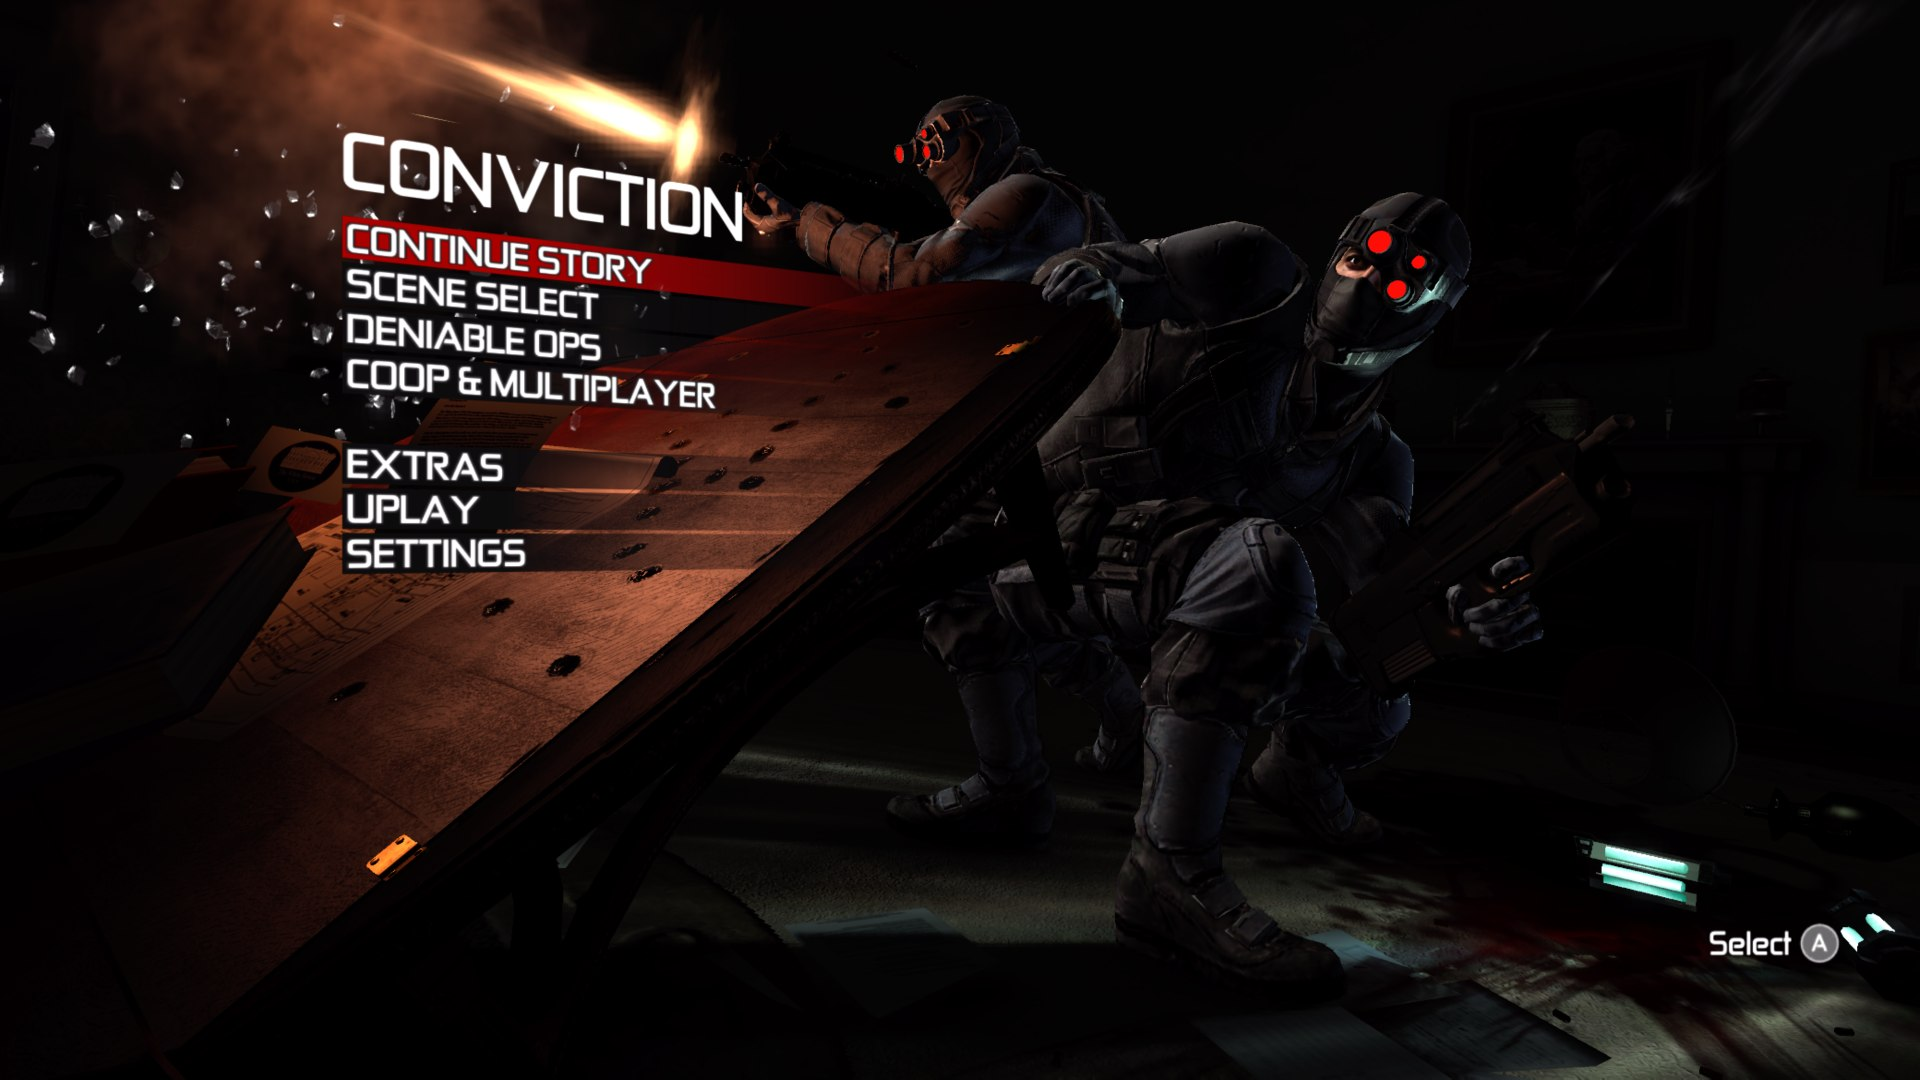
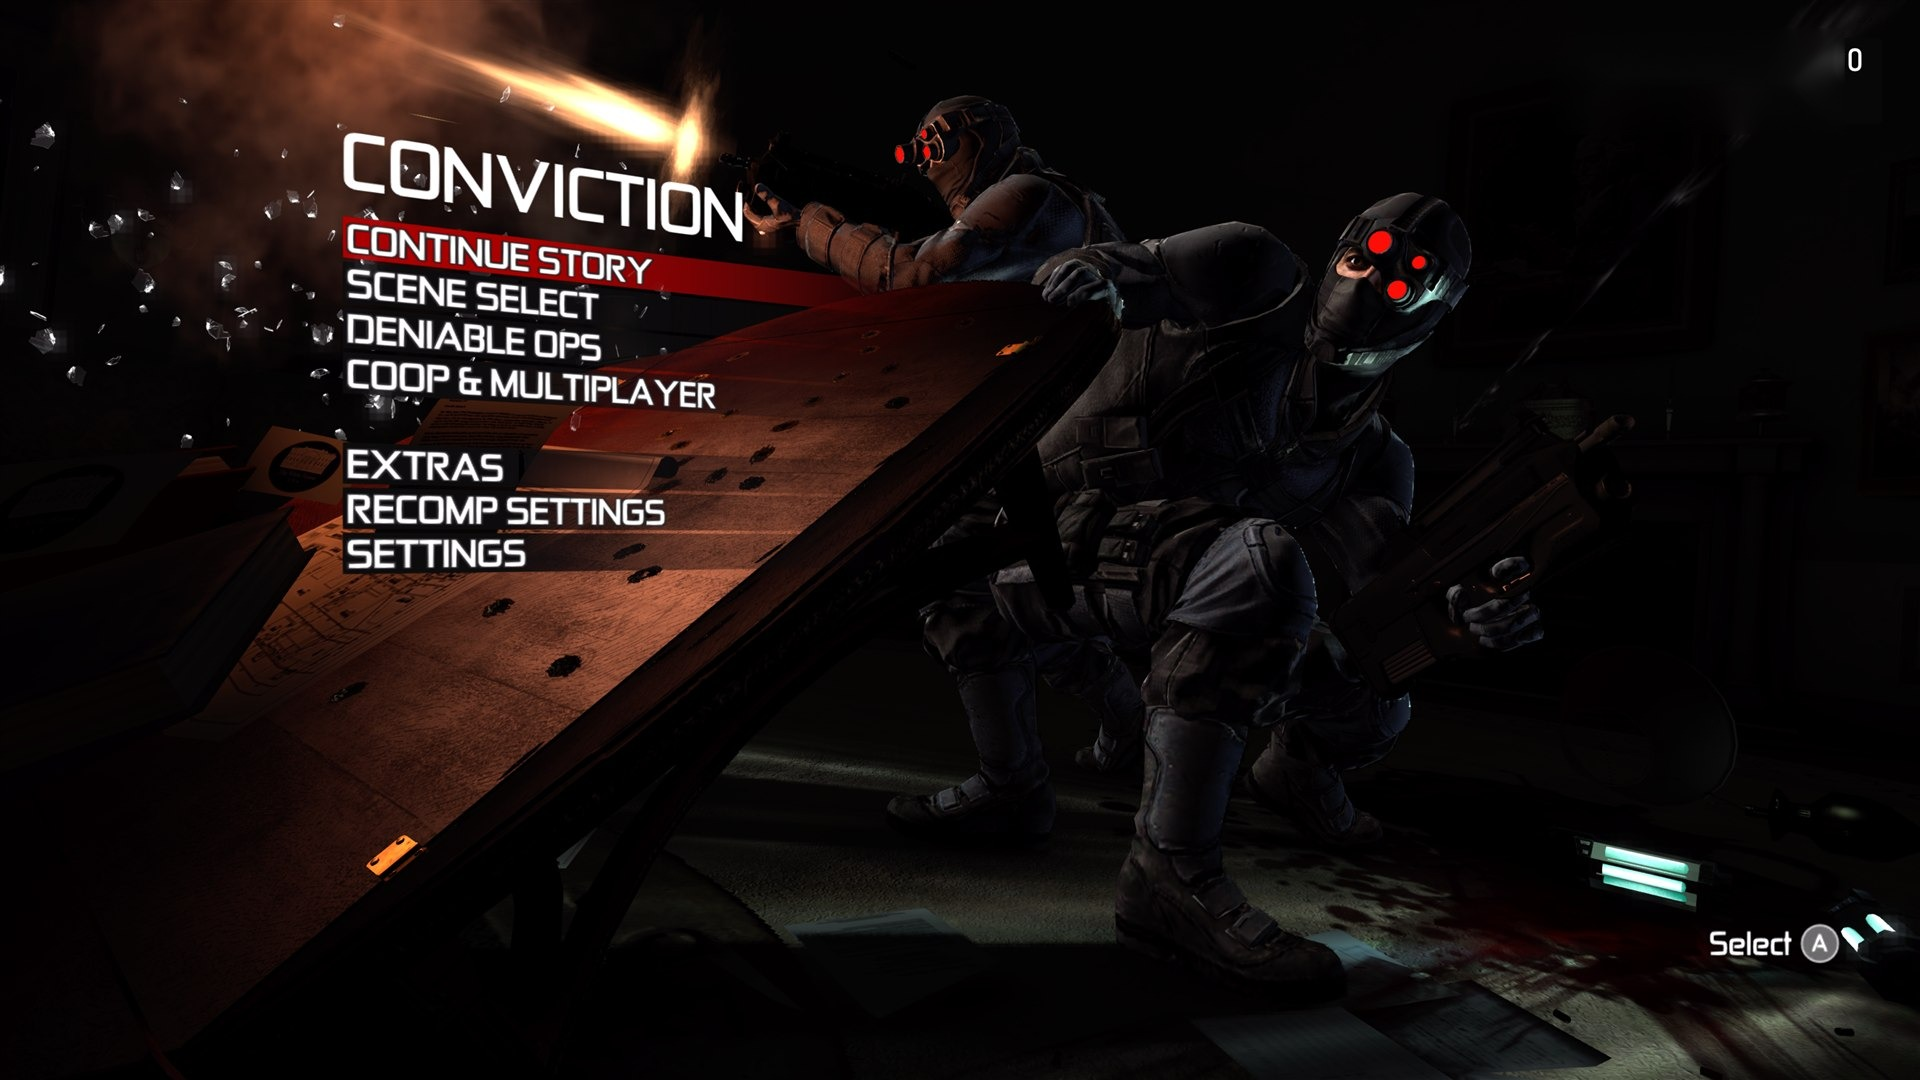
README: complete (test phase), 2026-11-05 patch notes, options, new screenshots
Status badge 'complete - testing', fps badge up to 240. Options: frame
rate cap, SMAA, Brightness, Texture sharpness, Profile name, Online on by
default. Screenshots: main menu with the Steam player card, RECOMP
SETTINGS with all rows, F1 Graphics tab at native 4K.

Claude-Session: https://claude.ai/code/session_01JYzPsfqunjkav1tmkVJWAA

diff --git a/README.md b/README.md
@@ -6,18 +6,20 @@
 
 **Tom Clancy's Splinter Cell: Conviction (Xbox 360) as a native Windows program. No emulator.**
 
-![status](https://img.shields.io/badge/status-in%20development-orange)
+![status](https://img.shields.io/badge/status-complete%20%E2%80%93%20testing-yellowgreen)
 [![Report a bug](https://img.shields.io/badge/report-a%20bug-red?logo=gitlab)](https://gitlab.com/octagram-labs-group/TCSCC-Recomp/-/issues)
 ![platform](https://img.shields.io/badge/platform-Windows%20x64-blue)
 ![renderer](https://img.shields.io/badge/renderer-Direct3D%2011-informational)
-![fps](https://img.shields.io/badge/up%20to-60%20fps-brightgreen)
+![fps](https://img.shields.io/badge/up%20to-240%20fps-brightgreen)
 ![license](https://img.shields.io/badge/license-GPL--3.0-green)
 
 </div>
 
 > [!NOTE]
-> **Work in progress.** All 11 story chapters load and play with sound and saves, Deniable Ops plays, and co-op /
-> Face-Off work online over Steam (System Link and Xbox LIVE Player Match). There is no installer release yet.
+> **Complete, now in the test phase.** All 11 story chapters load and play with sound and saves, Deniable Ops plays,
+> and co-op / Face-Off work online over Steam (System Link and Xbox LIVE Player Match). Please
+> [report](https://gitlab.com/octagram-labs-group/TCSCC-Recomp/-/issues) anything that looks or plays wrong.
+> No installer release has been published yet.
 
 > [!IMPORTANT]
 > **No game files are included, and none ever will be.** You need your own copy of the Xbox 360 game
@@ -51,8 +53,9 @@ and the runtime started as a fork of it, but every engine-specific fix has been 
 |:-:|:-:|
 | <img src="docs/images/player_match.jpg" width="400"><br>Xbox LIVE Player Match lobby, over Steam | <img src="docs/images/coop_banya.jpg" width="400"><br>Co-op in St. Petersburg Banya, two players |
 | <img src="docs/images/recomp_settings.jpg" width="400"><br>RECOMP SETTINGS, in the game's own menu | <img src="docs/images/faceoff.jpg" width="400"><br>Face-Off (PvP) over System Link |
-| <img src="docs/images/menu.jpg" width="400"><br>Main menu | <img src="docs/images/market_cafe.jpg" width="400"><br>Malta market, the cafe at night |
+| <img src="docs/images/menu.jpg" width="400"><br>Main menu with the Steam player card (top right) | <img src="docs/images/market_cafe.jpg" width="400"><br>Malta market, the cafe at night |
 | <img src="docs/images/market_square.jpg" width="400"><br>Market square | <img src="docs/images/market_alley.jpg" width="400"><br>Market alley, soft shadows |
+| <img src="docs/images/f1_graphics.jpg" width="400"><br>F1 menu, Graphics tab (native 4K) | |
 
 <div align="center">
 <img src="docs/images/ultrawide.jpg" width="820" alt="Ultrawide 21:9">
@@ -78,18 +81,23 @@ and the runtime started as a fork of it, but every engine-specific fix has been 
 ## Options (RECOMP SETTINGS in the main menu, or F1 / L3+R3 in game)
 
 The main menu's UPLAY entry is replaced by **RECOMP SETTINGS**, a settings page in the game's own style.
-Everything new is **off by default**, so the game looks and runs like the console unless you choose otherwise.
+The picture and speed options are **off by default**, so the game looks and runs like the console unless you choose
+otherwise. **Online is on by default** (without Steam running the game plays offline as usual).
 
 | Option | What it does |
 |-|-|
-| **60 FPS** | Lifts the game's 30 fps cap. Game speed is unchanged (checked: the game clock, walk speed and camera turn speed match at 30 and 60 fps). |
+| **Frame rate cap** | 30 (console), 60, 120, 144, 165 or 240. Game speed is unchanged (checked: the game clock, walk speed and cutscene timing match at 30, 60, 120 and 144 fps). Above 60 needs a high-refresh monitor or VSync off. Cutscenes stay at the game's own 30. |
 | **Ultrawide** | In a window wider than 16:9, shows more at the sides (Hor+) instead of black bars. The HUD and menus are stretched; objective markers stay on their targets. |
 | **Draw distance** | Console (default), High, Ultra or Maximum. Small objects stay visible and models keep their detailed versions 2x (High) or 4x (Ultra) further away. Maximum never hides or simplifies them. No measurable fps cost at 60 fps on 01_Market. |
 | Field of view | 70-120 degrees (horizontal; the game uses 90). Zoomed views keep their own. |
 | Internal resolution | Renders at 1x-4x and filters down (supersampling). The game itself renders at 1040x576. |
-| Upscaling, FXAA, sharpening, anisotropic filtering | Image quality options. |
+| **Anti-aliasing** | Off, FXAA or **SMAA** (sharper on fine detail). The game's own 4x MSAA is always on. |
+| **Brightness** | Display gamma on top of the game's own brightness (50-150%); black stays black. |
+| **Texture sharpness** | Default, Sharp or Sharper: more detailed textures at a distance. |
+| Upscaling, image sharpening, anisotropic filtering | Image quality options. |
 | VSync, window mode | Display options. |
-| Online | Play co-op and Face-Off over Steam (see [Playing online](#playing-online)). |
+| Online | On by default. Co-op and Face-Off over Steam (see [Playing online](#playing-online)). |
+| **Profile name** | Your gamertag (F1 > Display). Empty: "Player" offline, your Steam name online. |
 | Language | Menu, subtitle and voice language (needs that language on your disc). |
 
 ## Playing online
@@ -145,6 +153,22 @@ Private Match (Y) and Steam invites to a Player Match don't work yet.
 - Send `scda.log` and `steam_helper.log` (next to `tcscc.exe`) with a bug report.
 
 ## Patch notes
+
+### 2026-11-05: up to 240 fps, SMAA, native 4K, player card
+- **New: frame rate cap** of 30, 60, 120, 144, 165 or 240 (was a 60 FPS switch). The engine's own limiter is
+  raised; game speed, walking and cutscene timing were checked at 120 and 144.
+- **New: SMAA** anti-aliasing, **Brightness** and **Texture sharpness** options.
+- **New: Steam player card** on the main menu: your avatar, name and online status.
+- **New: Profile name** setting (your gamertag, offline and online).
+- **Changed: Online is on by default.** Without Steam running, the game plays offline as before; saves are the
+  same either way.
+- **Fixed: blurry picture on scaled displays.** On a 4K screen at 150% scaling, the game rendered at 2560x1440 and
+  Windows stretched it. It now renders at the screen's real resolution.
+- **Fixed:** the RECOMP SETTINGS list ran past its panel.
+- **Faster, cooler:** three busy-wait loops (the GPU query wait, the file streamer and the frame limiter) now sleep. The
+  game uses about 40% less CPU at the same frame rate (main menu 4.1 -> 2.4 cores, gameplay 3.3 -> 1.9); on a
+  4-core CPU the menu went from 57 to 59 fps.
+- Tested: all 11 chapters, 400 s each with the new options on, no crash.
 
 ### 2026-11-05: online play
 - **New: online co-op and Face-Off over Steam.** System Link finds other players' matches through Steam, and
